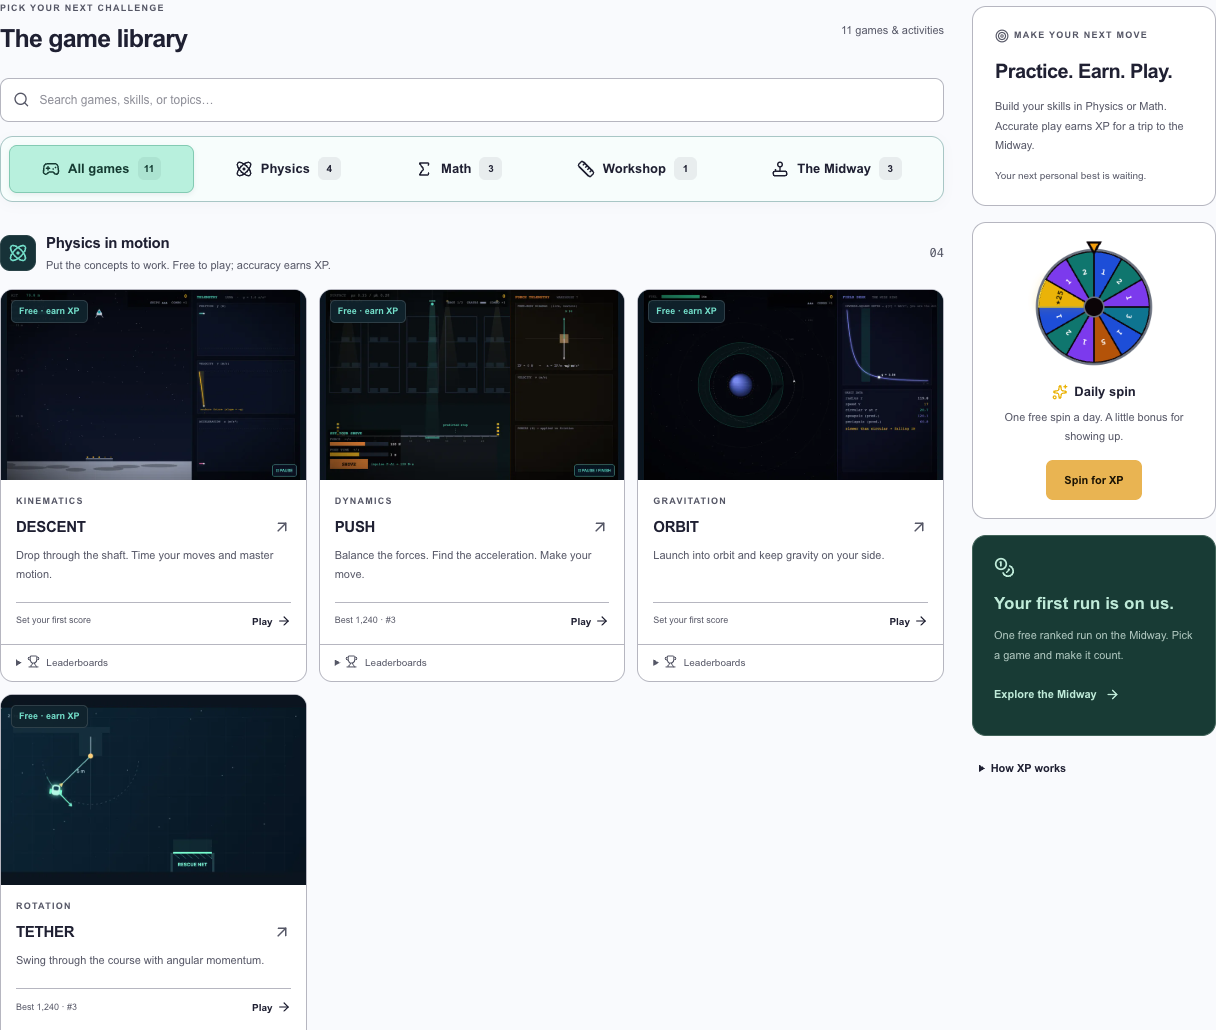
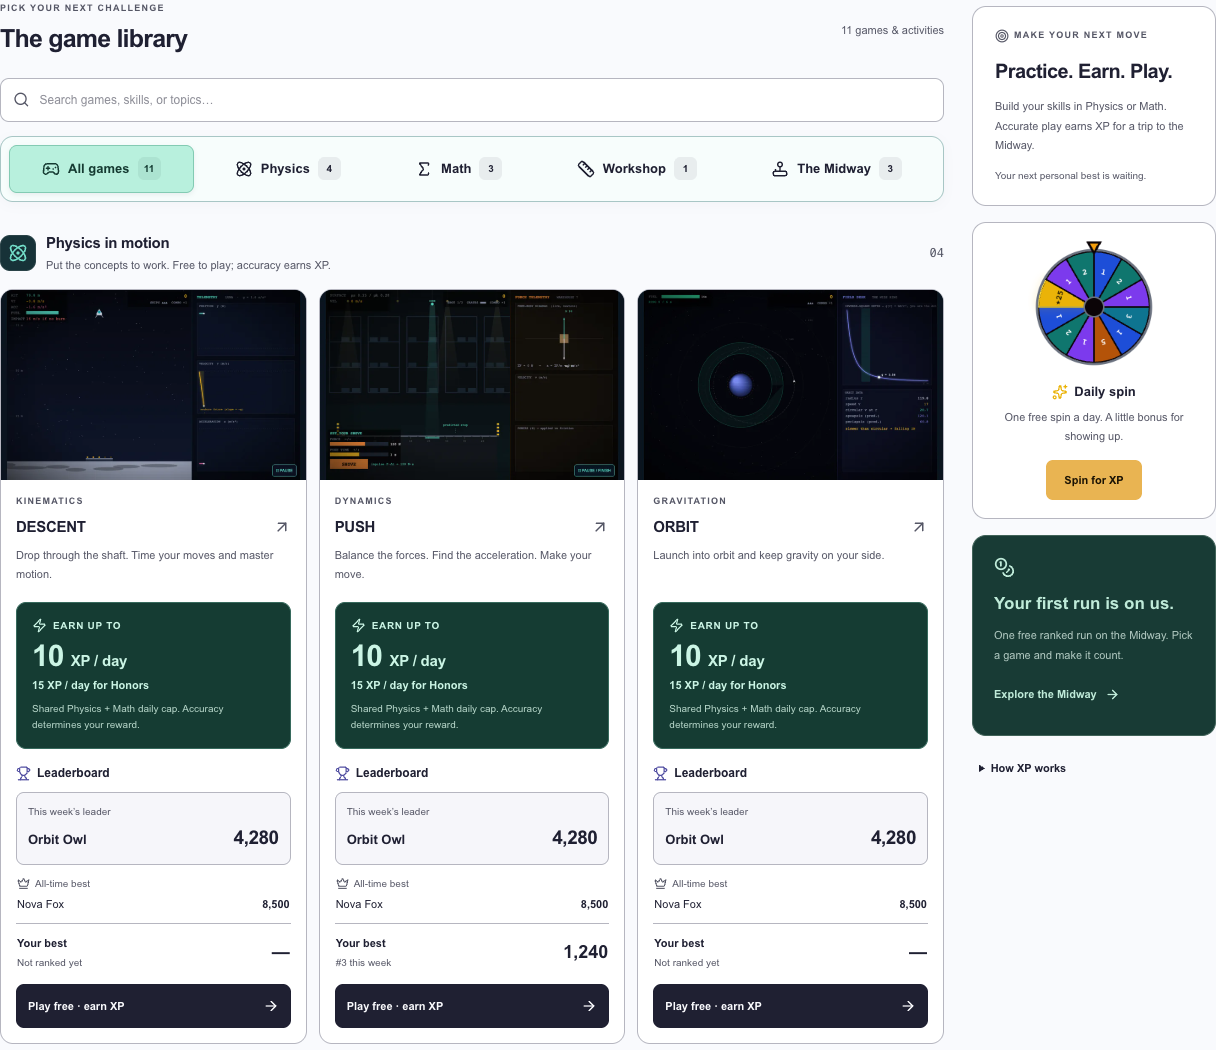
change to the arcade card

diff --git a/src/app/arcade/page.tsx b/src/app/arcade/page.tsx
@@ -2,9 +2,10 @@
 
 import { useEffect, useState, type CSSProperties } from 'react'
 import Link from 'next/link'
-import { ArrowDown, ArrowUpRight, Atom, Coins, Trophy, Gamepad2, Joystick, Target, Zap, Sigma, Search, X, Ruler, ArrowRight } from 'lucide-react'
+import { ArrowDown, ArrowUpRight, Atom, Coins, Trophy, Crown, Gamepad2, Joystick, Target, Zap, Sigma, Search, X, Ruler, ArrowRight } from 'lucide-react'
 import DailySpinWheel from '@/components/arcade/DailySpinWheel'
 import GamePreview from '@/components/arcade/GamePreview'
+import { UNIT_XP_TARGETS } from '@/lib/xp-policy'
 import styles from './arcade.module.css'
 
 type Cabinet = {
@@ -43,18 +44,59 @@ const FLOORS = {
 function CabinetCard({ game, category, balance, freeCredit }: { game: Cabinet; category: 'physics' | 'math' | 'midway'; balance: number; freeCredit: boolean }) {
   const free = game.costXp === 0
   const shortfall = Math.max(0, game.costXp - balance)
-  return <article className={styles.gameCard} style={{ '--game-color': FLOORS[category].color } as CSSProperties}>
-    <Link href={`/arcade/${game.slug}`} className={styles.gameLink}>
-      <div className={styles.artWrap}><GamePreview srcPath={game.srcPath} name={game.name} /><span className={styles.price}>{free ? 'Free · earn XP' : freeCredit ? 'Free first run' : `${game.costXp} XP / run`}</span></div>
-      <div className={styles.cardBody}>
-        <span className={styles.eyebrow}>{game.unit || (free ? 'Learning cabinet' : 'The Midway')}</span>
-        <h3>{game.name}<ArrowUpRight size={18} /></h3>
-        <p>{game.blurb || 'Step up to the cabinet and set your next personal best.'}</p>
-        <div className={styles.cardBottom}><span>{game.myBest ? `Best ${game.myBest.toLocaleString()}` : 'Set your first score'}{game.myWeeklyRank ? ` · #${game.myWeeklyRank}` : ''}</span><strong>{!free && !freeCredit && shortfall > 0 ? `Need ${shortfall} more XP` : 'Play'}<ArrowRight size={14} /></strong></div>
-      </div>
-    </Link>
-    <details className={styles.records}><summary><Trophy size={13} /> Leaderboards</summary><dl><div><dt>This week</dt><dd>{game.weeklyLeader ? `${game.weeklyLeader.name} · ${game.weeklyLeader.score.toLocaleString()}` : 'Be the first'}</dd></div><div><dt>All time</dt><dd>{game.hallOfFame ? `${game.hallOfFame.name} · ${game.hallOfFame.score.toLocaleString()}` : 'Be the first'}</dd></div></dl></details>
-  </article>
+  const price = freeCredit ? 0 : game.costXp
+
+  return (
+    <article className={styles.gameCard} style={{ '--game-color': FLOORS[category].color } as CSSProperties}>
+      <Link href={`/arcade/${game.slug}`} className={styles.gameLink}>
+        <div className={styles.artWrap}>
+          <GamePreview srcPath={game.srcPath} name={game.name} />
+        </div>
+        <div className={styles.cardBody}>
+          <span className={styles.eyebrow}>{game.unit || (free ? 'Learning cabinet' : 'The Midway')}</span>
+          <h3>{game.name}<ArrowUpRight size={18} /></h3>
+          <p>{game.blurb || 'Step up to the cabinet and set your next personal best.'}</p>
+
+          <div className={free ? styles.rewardPanel : styles.costPanel}>
+            <span className={styles.economyLabel}>{free ? <><Zap size={15} /> Earn up to</> : <><Coins size={15} /> Ranked run cost</>}</span>
+            <strong className={styles.economyAmount}>
+              {free ? UNIT_XP_TARGETS.cpa.dailyMath : price} <span>XP{free ? ' / day' : ' / run'}</span>
+            </strong>
+            <span className={styles.economyDetail}>
+              {free ? `${UNIT_XP_TARGETS.honors.dailyMath} XP / day for Honors` : freeCredit ? `First run free · normally ${game.costXp} XP` : 'One credit · play until game over'}
+            </span>
+            {free && <span className={styles.economyNote}>Shared Physics + Math daily cap. Accuracy determines your reward.</span>}
+          </div>
+
+          <div className={styles.leaderPanel}>
+            <h4><Trophy size={15} /> Leaderboard</h4>
+            <dl>
+              <div className={styles.weeklyLeader}>
+                <dt>This week’s leader</dt>
+                <dd>
+                  <span>{game.weeklyLeader?.name || 'Take the top spot'}</span>
+                  <strong>{game.weeklyLeader ? game.weeklyLeader.score.toLocaleString() : '—'}</strong>
+                </dd>
+              </div>
+              <div className={styles.recordRow}>
+                <dt><Crown size={13} /> All-time best</dt>
+                <dd><span>{game.hallOfFame?.name || 'Be the first'}</span><strong>{game.hallOfFame ? game.hallOfFame.score.toLocaleString() : '—'}</strong></dd>
+              </div>
+              <div className={styles.personalRecord}>
+                <dt>Your best <span>{game.myWeeklyRank ? `#${game.myWeeklyRank} this week` : 'Not ranked yet'}</span></dt>
+                <dd>{game.myBest ? game.myBest.toLocaleString() : '—'}</dd>
+              </div>
+            </dl>
+          </div>
+
+          <div className={styles.playAction}>
+            <strong>{free ? 'Play free · earn XP' : freeCredit ? 'Use free first run' : shortfall > 0 ? `Need ${shortfall} more XP` : `Play for ${game.costXp} XP`}</strong>
+            <ArrowRight size={16} />
+          </div>
+        </div>
+      </Link>
+    </article>
+  )
 }
 
 export default function ArcadePage() {
@@ -117,7 +159,7 @@ export default function ArcadePage() {
           <div className={styles.floorHeading}><span className={styles.floorIcon} style={{ color: FLOORS[section.id].color }}><section.icon size={20} /></span><div><h3 id={`floor-${section.id}`}>{FLOORS[section.id].title}</h3><p>{FLOORS[section.id].desc}</p></div><span className={styles.floorCount}>{String(section.count).padStart(2, '0')}</span></div>
           <div className={styles.gameGrid}>
             {section.cabinets.map(g => <CabinetCard key={g.slug} game={g} category={section.id as 'physics' | 'math' | 'midway'} balance={data?.balance.balance ?? 0} freeCredit={!!data?.freeCreditAvailable} />)}
-            {section.workshop && <article className={styles.gameCard} style={{ '--game-color': FLOORS.workshop.color } as CSSProperties}><Link href="/arcade/tape-measure" className={styles.gameLink}><div className={styles.artWrap}><GamePreview srcPath="/games/tape-workshop/index.html" name="Tape Workshop" /><span className={styles.price}>Free practice</span></div><div className={styles.cardBody}><span className={styles.eyebrow}>Trades workshop</span><h3>Tape Workshop<ArrowUpRight size={18} /></h3><p>Read the marks, align zero, and measure with confidence. Inch fractions, decimals, and metric.</p><div className={styles.cardBottom}><span>Real-world skills</span><strong>Explore <ArrowRight size={14} /></strong></div></div></Link></article>}
+            {section.workshop && <article className={styles.gameCard} style={{ '--game-color': FLOORS.workshop.color } as CSSProperties}><Link href="/arcade/tape-measure" className={styles.gameLink}><div className={styles.artWrap}><GamePreview srcPath="/games/tape-workshop/index.html" name="Tape Workshop" /></div><div className={styles.cardBody}><span className={styles.eyebrow}>Trades workshop</span><h3>Tape Workshop<ArrowUpRight size={18} /></h3><p>Read the marks, align zero, and measure with confidence. Inch fractions, decimals, and metric.</p><div className={styles.rewardPanel}><span className={styles.economyLabel}><Ruler size={15} /> Hands-on workshop</span><strong className={styles.economyAmount}>Free <span>practice</span></strong><span className={styles.economyNote}>Practice your measuring skills. No XP or ranked leaderboard.</span></div><div className={styles.playAction}><strong>Enter workshop</strong><ArrowRight size={16} /></div></div></Link></article>}
           </div>
         </section>)}
         {visible.length === 0 && (data || query || category === 'workshop') && <div className={styles.empty}><Search size={26} /><h3>{query ? 'No games found' : 'No cabinets here yet'}</h3><p>{query ? 'Try a different topic or explore the other categories.' : 'Explore another category while this floor gets ready.'}</p><button onClick={() => { setQuery(''); setCategory('all') }}>Show all games</button></div>}

diff --git a/src/app/arcade/arcade.module.css b/src/app/arcade/arcade.module.css
@@ -65,3 +65,45 @@
 /* Cabinet-based stats can have longer labels than the former vocabulary stats. */
 .playerBar strong{white-space:normal;overflow-wrap:break-word;line-height:1.4;display:block}
 .dailyFooter{display:block;margin-top:12px}
+
+/* Rewards and standings are always visible where students choose a game. */
+.rewardPanel,.costPanel {
+  padding: 15px;
+  margin-bottom: 15px;
+  border-radius: 10px;
+  border: 1px solid #376a5d;
+  background: #153c33;
+  color: #cbf5e5;
+}
+.costPanel { background: #49321b; border-color: #82643c; color: #ffe2aa; }
+.economyLabel { display: flex; align-items: center; gap: 6px; font-size: 10px; font-weight: 700; text-transform: uppercase; letter-spacing: .7px; }
+.economyAmount { display: block; margin: 5px 0 3px; font-size: 30px; line-height: 1.2; font-weight: 750; letter-spacing: -1px; }
+.economyAmount span { font-size: 15px; font-weight: 600; letter-spacing: -.2px; }
+.economyDetail { display: block; font-size: 11px; font-weight: 600; line-height: 1.6; }
+.economyNote { display: block; margin-top: 7px; font-size: 10px; line-height: 1.6; color: #b6d6c9; }
+.leaderPanel { margin-bottom: 14px; }
+.leaderPanel h4 { display: flex; align-items: center; gap: 6px; margin-bottom: 10px; font-size: 12px; font-weight: 700; }
+.leaderPanel h4 svg { color: var(--primary); }
+.weeklyLeader { padding: 11px; border: 1px solid var(--border); border-radius: 8px; background: color-mix(in srgb, var(--primary) 5%, var(--card)); }
+.weeklyLeader dt { font-size: 10px; color: var(--muted-foreground); margin-bottom: 5px; }
+.weeklyLeader dd { display: flex; flex-wrap: wrap; align-items: baseline; justify-content: space-between; gap: 5px 10px; font-size: 13px; font-weight: 600; }
+.weeklyLeader dd span,.recordRow dd span { min-width: 0; overflow-wrap: anywhere; }
+.weeklyLeader strong { font-size: 19px; letter-spacing: -.5px; font-variant-numeric: tabular-nums; }
+.recordRow { padding: 11px 1px; border-bottom: 1px solid var(--border); }
+.recordRow dt { display: flex; align-items: center; gap: 5px; font-size: 10px; color: var(--muted-foreground); margin-bottom: 5px; }
+.recordRow dd { display: flex; flex-wrap: wrap; justify-content: space-between; gap: 5px 10px; font-size: 11px; }
+.recordRow strong { font-variant-numeric: tabular-nums; }
+.personalRecord { display: flex; flex-wrap: wrap; align-items: center; justify-content: space-between; gap: 8px; padding: 11px 1px 0; }
+.personalRecord dt { font-size: 11px; font-weight: 600; }
+.personalRecord dt span { display: block; margin-top: 3px; color: var(--muted-foreground); font-size: 10px; font-weight: 400; }
+.personalRecord dd { font-size: 18px; font-weight: 700; font-variant-numeric: tabular-nums; }
+.playAction { display: flex; align-items: center; justify-content: space-between; gap: 8px; padding: 12px; min-height: 44px; border-radius: 8px; background: var(--foreground); color: var(--background); font-size: 11px; margin-top: auto; }
+.playAction svg { flex-shrink: 0; }
+@media(max-width:620px) {
+  .rewardPanel,.costPanel { padding: 12px; }
+  .economyAmount { font-size: 27px; }
+  .economyAmount span { font-size: 12px; }
+  .economyLabel { font-size: 9px; letter-spacing: .3px; }
+  .weeklyLeader { padding: 9px; }
+  .weeklyLeader dd { font-size: 12px; }
+}

diff --git a/docs/arcade-ui/README.md b/docs/arcade-ui/README.md
@@ -4,6 +4,8 @@ The arcade contains Physics, Math, Workshop, and Midway. Vocabulary games, vocab
 
 Vocabulary remains available through lesson blocks and assignments. The vocabulary index and shared game-return links now lead to vocabulary assignments instead of the arcade. Lesson and assignment practice logic is unchanged.
 
+Game cards keep weekly leaders, all-time records, personal bests, and weekly rank visible without disclosure controls. Learning cards prominently show the shared daily earning cap (10 XP, or 15 XP for Honors), sourced from `UNIT_XP_TARGETS`, with the accuracy qualification. Midway cards prominently show the actual ranked-run price; eligible first runs display 0 XP and the normal price. Tape Workshop explicitly remains free practice without XP or ranked standings.
+
 ## Game previews
 
 Every shipped active game has its own real gameplay capture, including the Tape Workshop. The 24 WebP images in `public/arcade/previews` are 720 × 450 and mapped by the cabinet's `srcPath` in `src/components/arcade/game-previews.json`. Next Image handles loading and sizing. An unknown or failed preview displays an explicit placeholder rather than another game's art.
